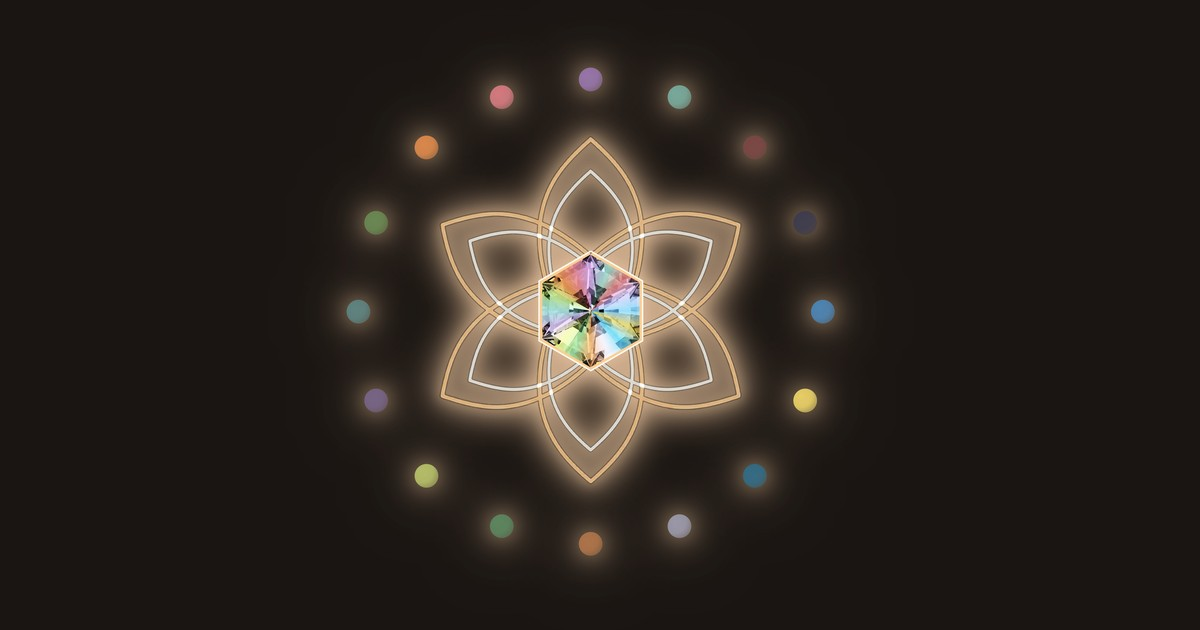
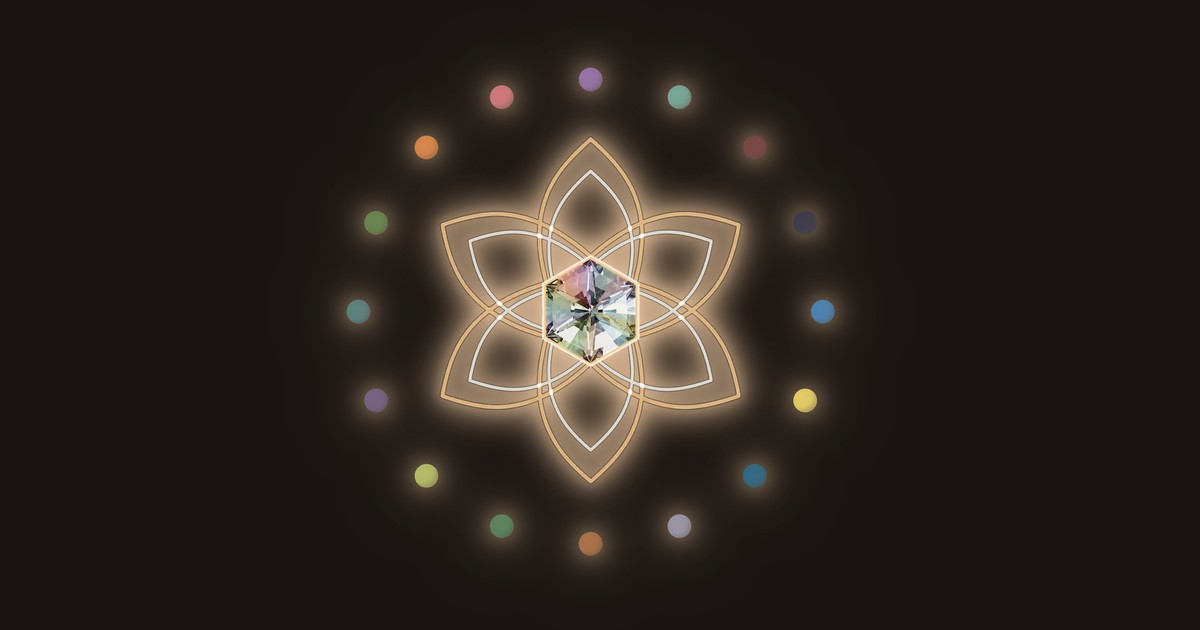
Update gem pass 3

Changed region(s): [[0.4317, 0.3921, 0.555, 0.6032]]

diff --git a/src/app/components/SpectralGem.tsx b/src/app/components/SpectralGem.tsx
@@ -2,7 +2,7 @@ import { useEffect, useRef } from 'react';
 import { useFadeSwitch } from '../../lib/useFadeSwitch';
 import { allColors, valarColors } from './ValarBreathingLogo';
 import { orbColour } from '../../lib/orbColours';
-import { breathFractions, breathLengthMs, gemClock, gemMultiplyColor, hueOnly, type BreathTiming } from '../../lib/breathClock';
+import { breathFractions, breathLengthMs, gemClock, gemMultiplyColor, type BreathTiming } from '../../lib/breathClock';
 import { GEM_CENTRE, GEM_HEX_RADIUS, GEM_TO_PETALS, SPRITE_CELL, frameOrigin, loadGemSprite } from '../../lib/gemSprite';
 
 interface SpectralGemProps {
@@ -21,21 +21,27 @@ interface SpectralGemProps {
   breathingEnabled?: boolean;
 }
 
-// A double bezel around the edge of the stone: a gold line (the darker of the petals' two colours, and their
-// thickness) sitting half on the stone and half off it, with a thinner cream line (the lighter petal colour) just
-// outside it.
-const BEZEL_WIDTH = 0.04; // (half of it sits behind the stone)
-// of the frame's side (the petals' line is about 2.8% of the same span)
-const BEZEL_COLOR = '#fcce96';
+// A double bezel around the edge of the stone, drawn behind it. It copies the petals' strokes: the same two colours
+// (a gold line, and a thinner cream line just outside it), the same thickness, the same slight transparency (the
+// petals are about 86% opaque, so what shows is a little darker than the plain colour) and the same soft edge.
+const BEZEL_WIDTH = 0.032; // of the stone's frame (the petals' line is about 2.8% of the same span)
+const BEZEL_COLOR = [252, 206, 150];
 const BEZEL_OUTER_WIDTH = 0.012;
-const BEZEL_OUTER_COLOR = '#fff9ee';
+const BEZEL_OUTER_COLOR = [255, 249, 238];
 const BEZEL_GAP = 0.004; // between the two lines
+const BEZEL_ALPHA = 0.86;
+const BEZEL_FEATHER = 0.012; // extra width of the soft edge, at a lower alpha
+const BEZEL_SHIFT = 0.15; // how far (as a fraction of its width) the gold line sits outside the stone's edge
+const BEZEL_CANVAS = 1.12; // the bezel canvas is this much larger than the stone's, so the outer line is not cut off
 
-// The stone's own colour: the colours of the 16 inner orbs, laid round it like a colour wheel that turns once every
-// two minutes (as the orbit does) and changes as the orbs' colours change. The stone is nearly opaque, so its colour
-// comes from this and not from the orbs showing through it.
-const FIELD_STRENGTH = 0.75; // 0 = no colour, 1 = the orbs' full hue
+// The stone's own colour: the colours of the 16 inner orbs laid round it like a colour wheel that turns once every
+// two minutes (as the orbit does) and changes as the orbs' colours change. It is applied with the "color" blend,
+// which takes the hue from the wheel and keeps the stone's own light and dark, so the facets keep their structure.
+const FIELD_ALPHA = 0.45; // 0 = no colour, 1 = full colour
 const FIELD_TURN_S = 120;
+// Structure: the stone is multiplied by itself a little, which deepens its shadows and lines without darkening its
+// highlights, and the overlay layer on top is kept light.
+const CONTRAST = 0.6;
 
 const FRAME_INTERVAL_MS = 1000 / 30; // the sparkle moves ~1.6 frames a second; 30 draws a second is plenty smooth
 
@@ -48,8 +54,8 @@ export default function SpectralGem({
   size,
   cycleStart,
   technique = null,
-  clarity = 0.12, // nearly opaque: the colour is made inside the stone, not seen through it
-  sparkle = 0.8, // was 1
+  clarity = 0.2, // nearly opaque: the colour is made inside the stone, not seen through it
+  sparkle = 0.25, // the overlay layer washes an opaque stone toward white, so it is kept light
   tint = 0.2,
   breathingEnabled = true,
 }: SpectralGemProps) {
@@ -78,14 +84,15 @@ export default function SpectralGem({
     const px = Math.max(8, Math.round(gemSide * dpr));
     // Only resize when the size really changed: resizing clears a canvas, which shows as a flash.
     if (body.width !== px) body.width = body.height = light.width = light.height = px;
-    // The bezel is static: drawn once per size.
+    // The bezel is static: drawn once per size, on a slightly larger canvas.
     const bezel = bezelRef.current;
-    if (bezel && bezel.width !== px) {
-      bezel.width = bezel.height = px;
+    const pxb = Math.round(px * BEZEL_CANVAS);
+    if (bezel && bezel.width !== pxb) {
+      bezel.width = bezel.height = pxb;
       const z = bezel.getContext('2d');
       if (z) {
-        const c = px / 2;
-        const R = GEM_HEX_RADIUS * px;
+        const c = pxb / 2;
+        const R = GEM_HEX_RADIUS * px + BEZEL_SHIFT * BEZEL_WIDTH * px;
         const hex = (radius: number) => {
           z.beginPath();
           for (let k = 0; k < 6; k++) {
@@ -97,14 +104,19 @@ export default function SpectralGem({
         };
         z.lineJoin = 'round';
         z.lineCap = 'round';
-        z.strokeStyle = BEZEL_COLOR;
-        z.lineWidth = Math.max(1, BEZEL_WIDTH * px);
-        hex(R);
-        z.stroke();
-        z.strokeStyle = BEZEL_OUTER_COLOR;
-        z.lineWidth = Math.max(0.75, BEZEL_OUTER_WIDTH * px);
-        hex(R + (BEZEL_WIDTH / 2 + BEZEL_GAP + BEZEL_OUTER_WIDTH / 2) * px);
-        z.stroke();
+        const rgba = (col: number[], a: number) => `rgba(${col[0]},${col[1]},${col[2]},${a})`;
+        const line = (radius: number, width: number, col: number[]) => {
+          z.strokeStyle = rgba(col, BEZEL_ALPHA * 0.4);
+          z.lineWidth = Math.max(1.5, (width + BEZEL_FEATHER) * px);
+          hex(radius);
+          z.stroke();
+          z.strokeStyle = rgba(col, BEZEL_ALPHA);
+          z.lineWidth = Math.max(1, width * px);
+          hex(radius);
+          z.stroke();
+        };
+        line(R, BEZEL_WIDTH, BEZEL_COLOR);
+        line(R + (BEZEL_WIDTH / 2 + BEZEL_GAP + BEZEL_OUTER_WIDTH / 2) * px, BEZEL_OUTER_WIDTH, BEZEL_OUTER_COLOR);
       }
     }
     const bctx = body.getContext('2d');
@@ -146,23 +158,32 @@ export default function SpectralGem({
       }
       const [r, g, b] = gemMultiplyColor(allColors, c.idx, c.p, f, breathingEnabled ? tint : 0, !reduced);
       bctx.globalCompositeOperation = 'source-over';
+      bctx.globalAlpha = 1;
       bctx.clearRect(0, 0, px, px);
       bctx.drawImage(off, 0, 0);
+      // Structure: multiply the stone by itself a little. Shadows and lines deepen, highlights stay.
       bctx.globalCompositeOperation = 'multiply';
-      // The stone's inner colour: a wheel of the orbs' current colours.
+      bctx.globalAlpha = CONTRAST;
+      bctx.drawImage(off, 0, 0);
+      // The stone's inner colour: a wheel of the orbs' current colours, applied as hue only ("color" blend), so the
+      // stone keeps its own light and dark.
       if (typeof bctx.createConicGradient === 'function') {
         const tSec = reduced ? 0 : (Date.now() - mountTime.current) / 1000;
         const wheel = bctx.createConicGradient(reduced ? 0 : ((tSec / FIELD_TURN_S) % 1) * 2 * Math.PI, px / 2, px / 2);
         const n = valarColors.length;
         for (let i = 0; i <= n; i++) {
           const j = i % n;
-          const h = hueOnly(orbColour(valarColors[j].vector, j, tSec));
-          const c = h.map((v) => Math.round(255 + (v - 255) * FIELD_STRENGTH));
-          wheel.addColorStop(i / n, `rgb(${c[0]},${c[1]},${c[2]})`);
+          const col = orbColour(valarColors[j].vector, j, tSec);
+          wheel.addColorStop(i / n, `rgb(${Math.round(col[0])},${Math.round(col[1])},${Math.round(col[2])})`);
         }
+        bctx.globalCompositeOperation = 'color';
+        bctx.globalAlpha = FIELD_ALPHA;
         bctx.fillStyle = wheel;
         bctx.fillRect(0, 0, px, px);
       }
+      // The breathing tint on top, as before.
+      bctx.globalCompositeOperation = 'multiply';
+      bctx.globalAlpha = 1;
       bctx.fillStyle = `rgb(${Math.round(r)},${Math.round(g)},${Math.round(b)})`;
       bctx.fillRect(0, 0, px, px);
       bctx.globalCompositeOperation = 'destination-in'; // restore the stone's transparent outline
@@ -247,7 +268,7 @@ export default function SpectralGem({
     <>
       <canvas ref={bodyRef} aria-hidden="true" style={{ ...place, zIndex: 30, opacity: (1 - clarity) * (fadeStyle.opacity as number), transition: fadeStyle.transition }} />
       <canvas ref={lightRef} aria-hidden="true" style={{ ...place, zIndex: 31, mixBlendMode: 'overlay', opacity: sparkle * (fadeStyle.opacity as number), transition: fadeStyle.transition }} />
-      <canvas ref={bezelRef} aria-hidden="true" style={{ ...place, zIndex: 29 }} />
+      <canvas ref={bezelRef} aria-hidden="true" style={{ ...place, width: gemSide * BEZEL_CANVAS, height: gemSide * BEZEL_CANVAS, zIndex: 29 }} />
     </>
   );
 }

diff --git a/src/lib/gemSprite.ts b/src/lib/gemSprite.ts
@@ -8,7 +8,7 @@ export const SPRITE_CELL = 288;
 /** The hexagon spans this fraction of its frame's width. */
 export const GEM_HEX_FRACTION = 2 / 2.48;
 /** Gem canvas side as a fraction of the petals layer's side (the petals layer is size * 0.765). */
-export const GEM_TO_PETALS = 0.3402;
+export const GEM_TO_PETALS = 0.313; // was 0.3402: the stone is a little smaller, with its bezel
 /** Circumradius of the stone's hexagon (corners at the top and bottom) as a fraction of its frame's side. */
 export const GEM_HEX_RADIUS = 476 / 1024;
 
